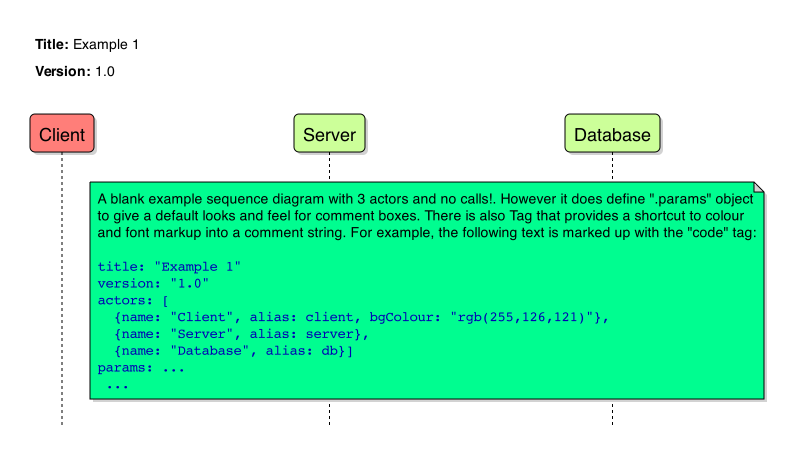
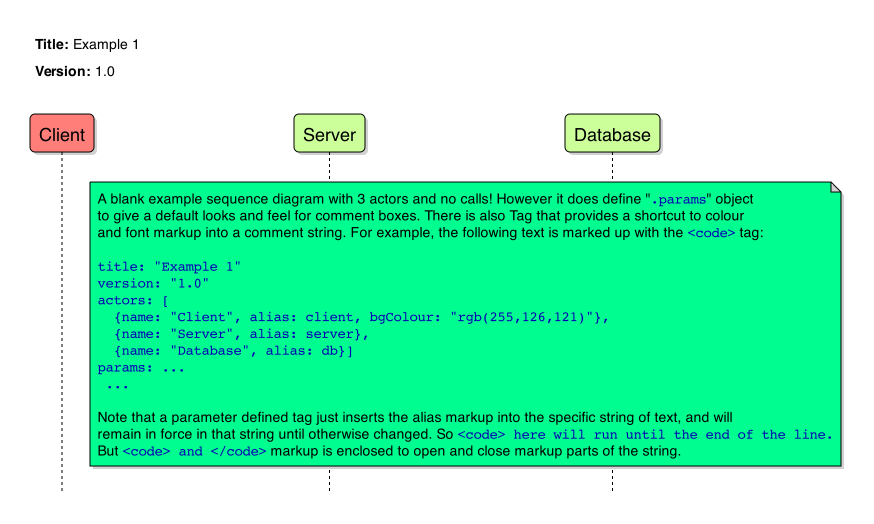
Bug fixed in Utilities when counting width of text metadata. Also updated example 1 and extended scriptions in package.json

Changed region(s): [[0.0301, 0.214, 0.9636, 0.917], [0.0301, 0.0611, 0.1807, 0.1834], [0.5721, 0.6725, 0.7528, 0.7031]]

diff --git a/Utilities.js b/Utilities.js
@@ -506,7 +506,7 @@ module.exports = class Utilities {
 						colour: currentColour,
 						height: undefined,
 						startOffset: currentWidth,
-						width: Utilities.getTextPartWidth(ctx, lineparts[i], currentFontSizePx, currentFontFamily, currentBold, currentItalic)
+						width: Utilities.getTextPartWidth(ctx, txtPart, currentFontSizePx, currentFontFamily, currentBold, currentItalic)
 					};
 					currentWidth += md.width;
 					lineMetadata.push(md);

diff --git a/README.md b/README.md
@@ -87,9 +87,9 @@ lines:
       height: 0,
       comment:
         [
-          'A blank example sequence diagram with 3 actors and no calls!. However it does define ".params" object',
+          'A blank example sequence diagram with 3 actors and no calls! However it does define "<code>.params</code>" object',
           "to give a default looks and feel for comment boxes. There is also Tag that provides a shortcut to colour",
-          'and font markup into a comment string. For example, the following text is marked up with the "code" tag:',
+          'and font markup into a comment string. For example, the following text is marked up with the <code>&lt;code&gt;</code> tag:',
           "",
           '<code>title: "Example 1"',
           '<code>version: "1.0"',
@@ -99,6 +99,10 @@ lines:
           '<code>  {name: "Database", alias: db}]',
           "<code>params: ...",
           "<code> ...",
+          "",
+          "Note that a parameter defined tag just inserts the alias markup into the specific string of text, and will",
+          "remain in force in that string until otherwise changed. So <code>&lt;code&gt; here will run until the end of the line.",
+          "But <code>&lt;code&gt; and &lt;/code&gt;</code> markup is enclosed to open and close markup parts of the string."
         ],
     },
   ]
